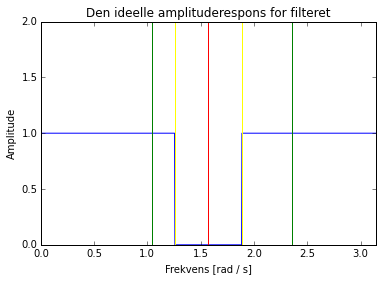
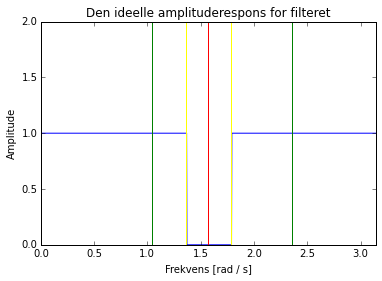
Filter

Changed region(s): [[0.4319, 0.4555, 0.4895, 0.8826], [0.6047, 0.4555, 0.6335, 0.8826]]

diff --git a/Diskret-tids-systemer/Miniprojekt/FIR_Filter_Martin.py b/Diskret-tids-systemer/Miniprojekt/FIR_Filter_Martin.py
@@ -9,28 +9,61 @@ import numpy as np
 import matplotlib.pyplot as plt
 from scipy import signal
 
+#==============================================================================
+# Plot af den ideelle impulsrespons
+#==============================================================================
+
+t = np.linspace(0,np.pi,1000)
+y = np.zeros(len(t))
+
+delta = np.pi/15.
+o1 = np.pi/2 - delta
+o2 = np.pi/2 + delta
+
+for i in range(len(t)):
+    if o1 >= t[i-3]:
+        y[i] = 1
+
+for i in range(len(t)):
+    if t[i-3] >= o2:
+        y[i] = 1
+
+plt.plot(t,y)
+plt.axis([0,np.pi,0,2])
+plt.axvline(o1, color='yellow')
+plt.axvline(o2, color='yellow')
+plt.axvline(np.pi/2, color='red')
+plt.axvline(np.pi/3, color='green')
+plt.axvline(3*np.pi/4, color='green')
+plt.title('Den ideelle amplituderespons for filteret')
+plt.xlabel('Frekvens [rad / s]')
+plt.ylabel('Amplitude')
+
+#==============================================================================
+# Definitioner (filterorden, -længde, indeks, knækfrekvenser og impulsrespons)
+#==============================================================================
+
 M = 92
 l = M+1
 
 n = np.linspace(0,l,l+1)
 x = np.linspace(-np.pi,np.pi,len(n))
 
-delta = np.pi/15.
-
-f1 = (np.pi/2. - delta) / (2*np.pi)
-f2 = (np.pi/2. + delta) / (2*np.pi)
-
-def h(n,M,f1,f2):
+def hd(n,M,f1,f2): 
     hd = np.zeros(len(n))
     for i in range(len(n)):
         if n[i] == M/2:
-            hd[i] = 1 - 2*(f2 - f1)
+            hd[i] = 1 - (o2 - o1)/np.pi
         else:
-            hd[i] = (np.sin(2*np.pi*f1*(n[i] - M/2.)) / (np.pi*(n[i] - M/2.))) \
-            - (np.sin(2*np.pi*f2*(n[i] - M/2.)) / (np.pi*(n[i] - M/2.)))
+            hd[i] = (np.sin(o1*(n[i] - M/2.)) / (np.pi*(n[i] - M/2.))) \
+            - (np.sin(o2*(n[i] - M/2.)) / (np.pi*(n[i] - M/2.)))
     return hd
 
-def rect(n,M):
+#==============================================================================
+# Vinduer
+#==============================================================================
+
+def rect(n,M): # Det ektangulaere vindue
     w = np.zeros(len(n))
     for i in range(len(n)):
         if n[i] >= 0 and n[i] <= M:
@@ -39,7 +72,7 @@ def rect(n,M):
             w[i] = 0
     return w
 
-def ha(n,M,a): # Hann window if a = 0.5. Hamming window if a = 0.54.
+def ha(n,M,a): # Hann-vindue, hvis a = 0.5. Hamming-vindue, hvis a = 0.54.
     w = np.zeros(len(n))
     for i in range(len(n)):
         if n[i] >= 0 and n[i] <= M:
@@ -48,7 +81,7 @@ def ha(n,M,a): # Hann window if a = 0.5. Hamming window if a = 0.54.
             w[i] = 0
     return w
 
-def blackman(n,M):
+def blackman(n,M): # Blackman-vinduet
     w = np.zeros(len(n))
     for i in range(len(n)):
         if n[i] >= 0 and n[i] <= M:
@@ -56,9 +89,13 @@ def blackman(n,M):
         else:
             w[i] = 0
     return w
-    
+
+#==============================================================================
+# Beregning af impuls- og amplituderespons
+#==============================================================================
+
 w = ha(n,M,0.54)
-hd = h(n,M,f1,f2)
+hd = hd(n,M,o1,o2)
 
 def fft(x,n):
     return np.fft.fft(x)
@@ -67,40 +104,42 @@ h = hd * w
 
 H = np.abs(fft(h,n))
 
+#==============================================================================
+# Graf over amplituderesponsen
+#==============================================================================
+
 plt.figure(2)
 plt.plot(x, H)
 plt.axis([0,np.pi,0,2])
 plt.title(r'Amplituderespons for filteret, Hamming-vinduet, $M = %d$' %(M))
 plt.xlabel('Frekvens [rad / s]')
 plt.ylabel('Amplitude')
-plt.axvline(f1*(2*np.pi), color='yellow') # lower cutoff frequency
-plt.axvline(f2*(2*np.pi), color='yellow') # upper cutoff frequency
-plt.axvline(np.pi/2, color='red') # frequency to be eliminated
-plt.axvline(np.pi/3, color='green') # frequency to keep
-plt.axvline(3*np.pi/4, color='green') # frequency to keep
+plt.axvline(o1, color='yellow') # Nedre knækfrekvens
+plt.axvline(o2, color='yellow') # Øvre knækfrekvens
+plt.axvline(np.pi/2, color='red') # Frekvens, der skal elimineres
+plt.axvline(np.pi/3, color='green') # Frekvens, der skal beholdes
+plt.axvline(3*np.pi/4, color='green') # Frekvens, der skal beholdes
+
+plt.figure(4)
+plt.plot(x, np.angle(H))
 
 #==============================================================================
-# Scipy 
+# Filteret i Scipy til sammenligning 
 #==============================================================================
 
-omega1_scp = np.pi/2-delta
-omega2_scp = np.pi/2+delta
-
-N = [omega1_scp,omega2_scp]
+N = [o1,o2]
 plt.figure(3)
 b, a = signal.butter(10, N, 'bandstop', analog=True)
 w, h = signal.freqs(b, a)
-plt.plot(w, abs(h), "b-", label = "Bandstop filter")
-plt.title('Scipys bandstop filter frequency response')
-plt.xlabel('Frequency [radians / second]')
+plt.plot(w, abs(h), "b-")
+plt.title('Amplitude for Scipys baandstop-filter')
+plt.xlabel('Frekvens [rad / s]')
 plt.ylabel('Amplitude')
-plt.legend(loc = "lower left")
 plt.margins(0, 0.1)
 plt.axis([0,np.pi,0,2])
-plt.grid(which='both', axis='both')
-plt.axvline(omega1_scp, color='yellow') # lower cutoff frequency
-plt.axvline(omega2_scp, color='yellow') # upper cutoff frequency
-plt.axvline(np.pi/2, color='red') # frequency to be eliminated
-plt.axvline(np.pi/3, color='green') # frequency to keep
-plt.axvline(3*np.pi/4, color='green') # frequency to keep
+plt.axvline(o1, color='yellow') # Nedre knækfrekvens
+plt.axvline(o2, color='yellow') # Øvre knækfrekvens
+plt.axvline(np.pi/2, color='red') # Frekvens, der skal elimineres
+plt.axvline(np.pi/3, color='green') # Frekvens, der skal beholdes
+plt.axvline(3*np.pi/4, color='green') # Frekvens, der skal beholdes
 plt.show()

diff --git a/Diskret-tids-systemer/Miniprojekt/Rapport/sections/mainmatter/ch4_specs.tex b/Diskret-tids-systemer/Miniprojekt/Rapport/sections/mainmatter/ch4_specs.tex
@@ -1,13 +1,14 @@
 \section{Specifikationer}
-FIR-filteret vælges til at være af type 1, altså er filterordenen $M$ lige og impulsresponsen $h[n]$ er symmetrisk, så $h[n] = h[M - n]$. Filteret har 2 knækfrekvenser $\omega_{c_1}$ og $\omega_{c_2}$ i rad/s, som vælges til at ligge midt imellem henholdsvis $\omega_1$ og $\omega_2$ samt $\omega_2$ og $\omega_3$. Derfor gælder der:
+FIR-filteret vælges til at være af type 1, altså er filterordenen $M$ lige og impulsresponsen $h[n]$ er symmetrisk, så $h[n] = h[M - n]$. Filteret har 2 knækfrekvenser $\omega_{c_1}$ og $\omega_{c_2}$ i rad/s, som vælges til at ligge symmetrisk omkring $\omega_2$, der skal elimineres ved hjælp af filteret.
 \begin{align*}
-\omega_{c_1} &= \omega_1 + \dfrac{\omega_2 - \omega_1}{2} = \frac{\pi}{3} + \dfrac{\pi}{12} = \dfrac{5\pi}{12}, \\
-\omega_{c_2} &= \omega_2 + \dfrac{\omega_3 - \omega_2}{2} = \frac{\pi}{2} + \dfrac{\pi}{8} = \dfrac{5\pi}{8}. \\
+\omega_{c_1} &= \omega_2 - \delta, \\
+\omega_{c_2} &= \omega_2 + \delta, \\
 \end{align*}
-Filtret designes dermed som et bånsstop filter med ovenstående knækfrekvenser. Den ideelle amplitude respons $H_d(\text{e}^{j\omega}$ er skitseret på figur \ref{fig:ideel_amp_respons} ud fra opstillede specifikationerne.   
+
+hvor $\delta$ vælges til at være $\frac{\pi}{15}$. Filteret designes dermed som et båndstopfilter med ovenstående knækfrekvenser. Den ideelle amplituderespons $H_d(\text{e}^{j\omega}$ er skitseret på figur \ref{fig:ideel_amp_respons} ud fra de opstillede specifikationer.   
 \begin{figure}[H]
     \centering
     \includegraphics[width = 0.6\textwidth]{figures/ideel_amp_respons.PNG}
-    \caption{Den ideelle amplituderespons for filteret.}
+    \caption{Den ideelle amplituderespons for filteret. De to grønne streger markerer $\omega_1$ og $\omega_3$, som skal beholdes, og de to gule streger markerer $\omega_{c_1}$ og $\omega_{c_2}$, som ligger symmetrisk omkring den røde streg, der markerer $\omega_2$, som skal elimineres.}
     \label{fig:ideel_amp_respons}
 \end{figure}

diff --git a/Diskret-tids-systemer/Miniprojekt/Rapport/sections/mainmatter/ch4_opti.tex b/Diskret-tids-systemer/Miniprojekt/Rapport/sections/mainmatter/ch4_opti.tex
@@ -7,6 +7,8 @@ For at optimere filteret anvendes et andet vindue. Ved at eksperimentere med de 
 \begin{minipage}{0.49\textwidth}
 \includegraphics[width=0.9\textwidth]{figures/Filter_Hamming_92.PNG}
 \end{minipage}
-\caption{Eksempler på båndstopfilteret ved hjælp af det rektangulære vindue og med forskellige filterordener $M$. De to grønne streger markerer $\omega_1$ og $\omega_3$, som skal beholdes, og de to gule streger markerer $\omega_{c_1}$ og $\omega_{c_2}$, som ligger symmetrisk omkring den røde streg, der markerer $\omega_2$, som skal elimineres.}
-\label{fig:filter_rekt}
+\caption{Eksempler på båndstopfilteret under anvendelse af Hann- og Hamming-vinduet med $M=92$.}
+\label{fig:filter_Hann_Hamming}
 \end{figure}
+
+Fra figur \ref{fig:filter_Hann_Hamming} fremgår det, at der ikke er nogle ripples i pasbåndet, hvor amplituden desuden er 1. Derudover er amplituden 0 i stopbåndet, hvor $\omega_2$ ligger. Således opfylder filteret specifikationerne for denne filterorden. Lavere orden medfører færre beregninger og bredere transitionsbånd, og sidstnævnte har ikke nogen særlig betydning i dette tilfælde, fordi afstandene mellem de 3 frekvenser i signalet er så store.
